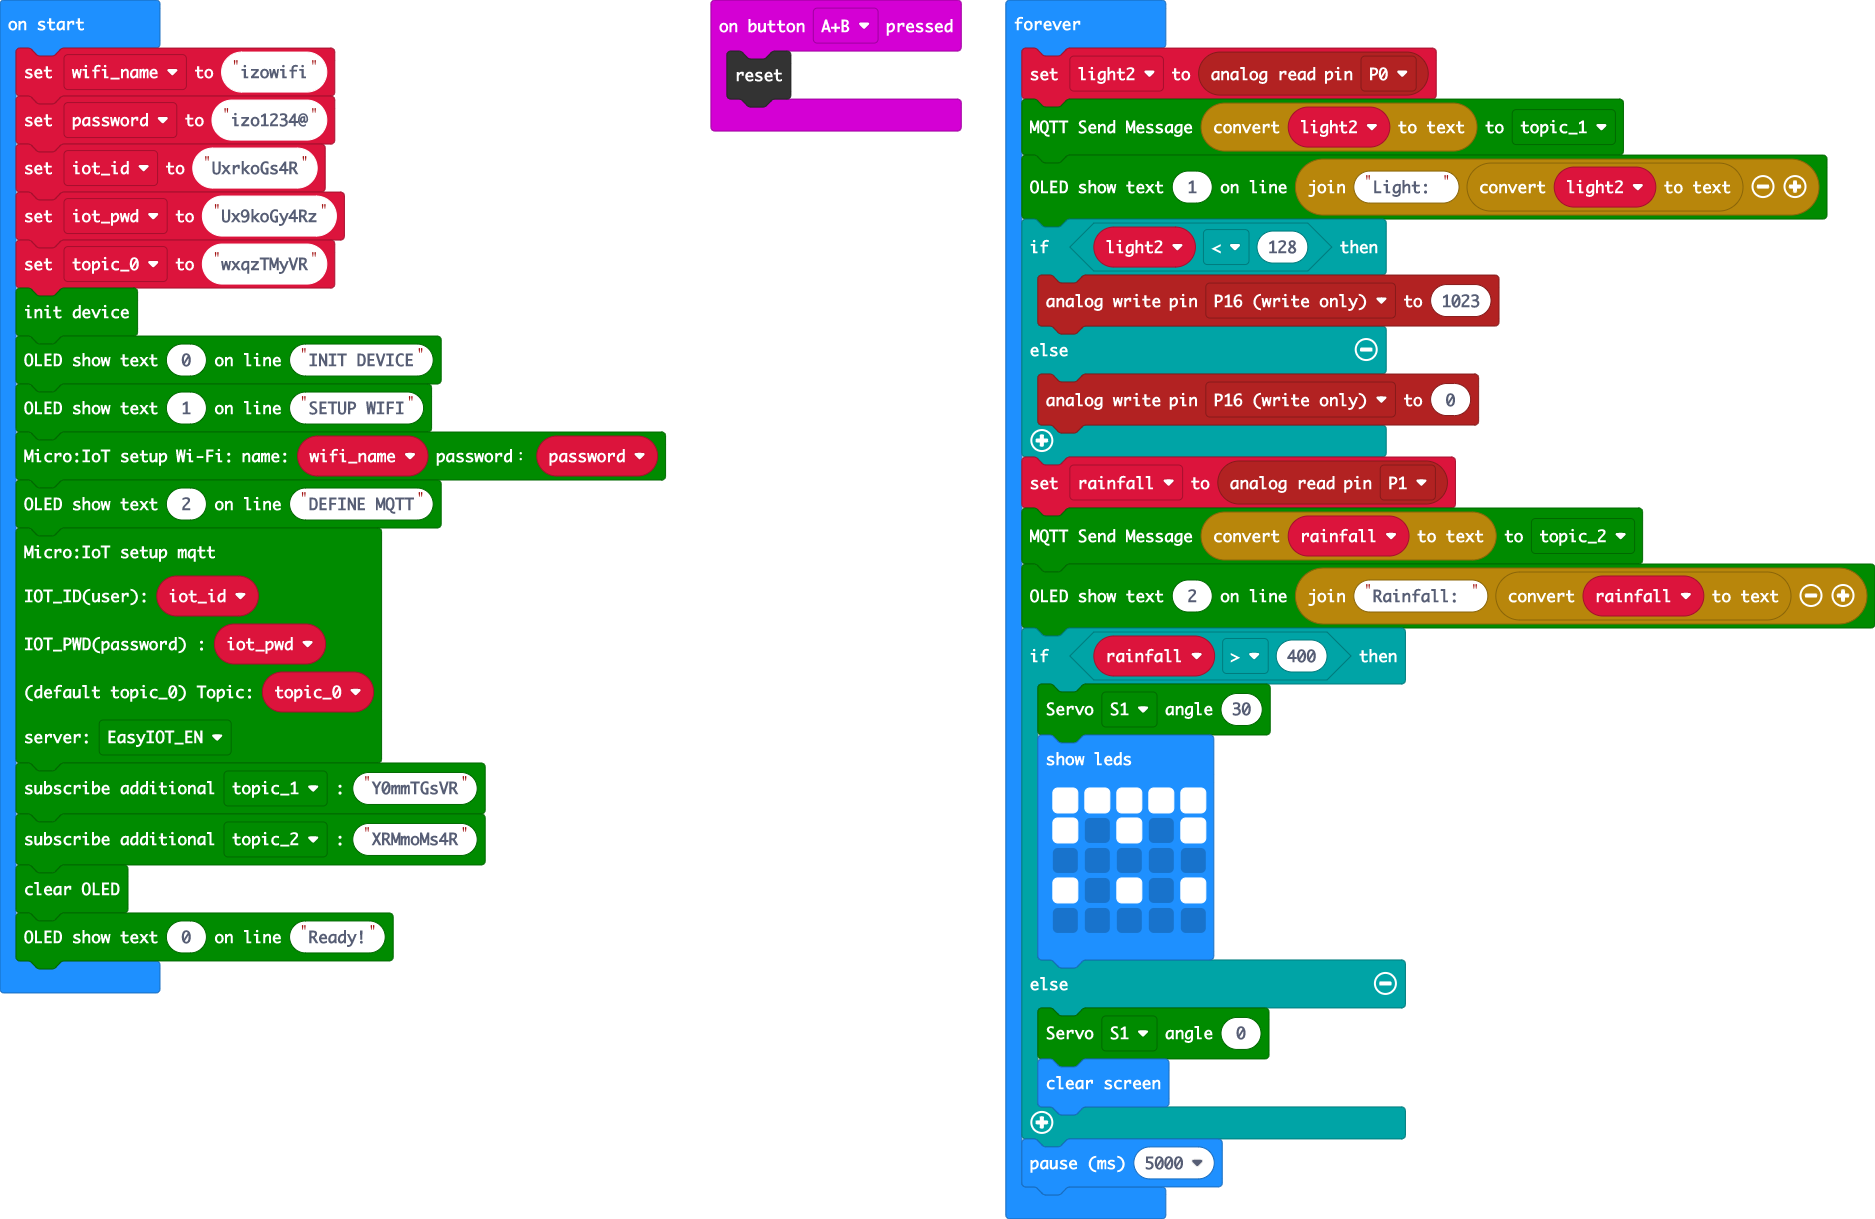
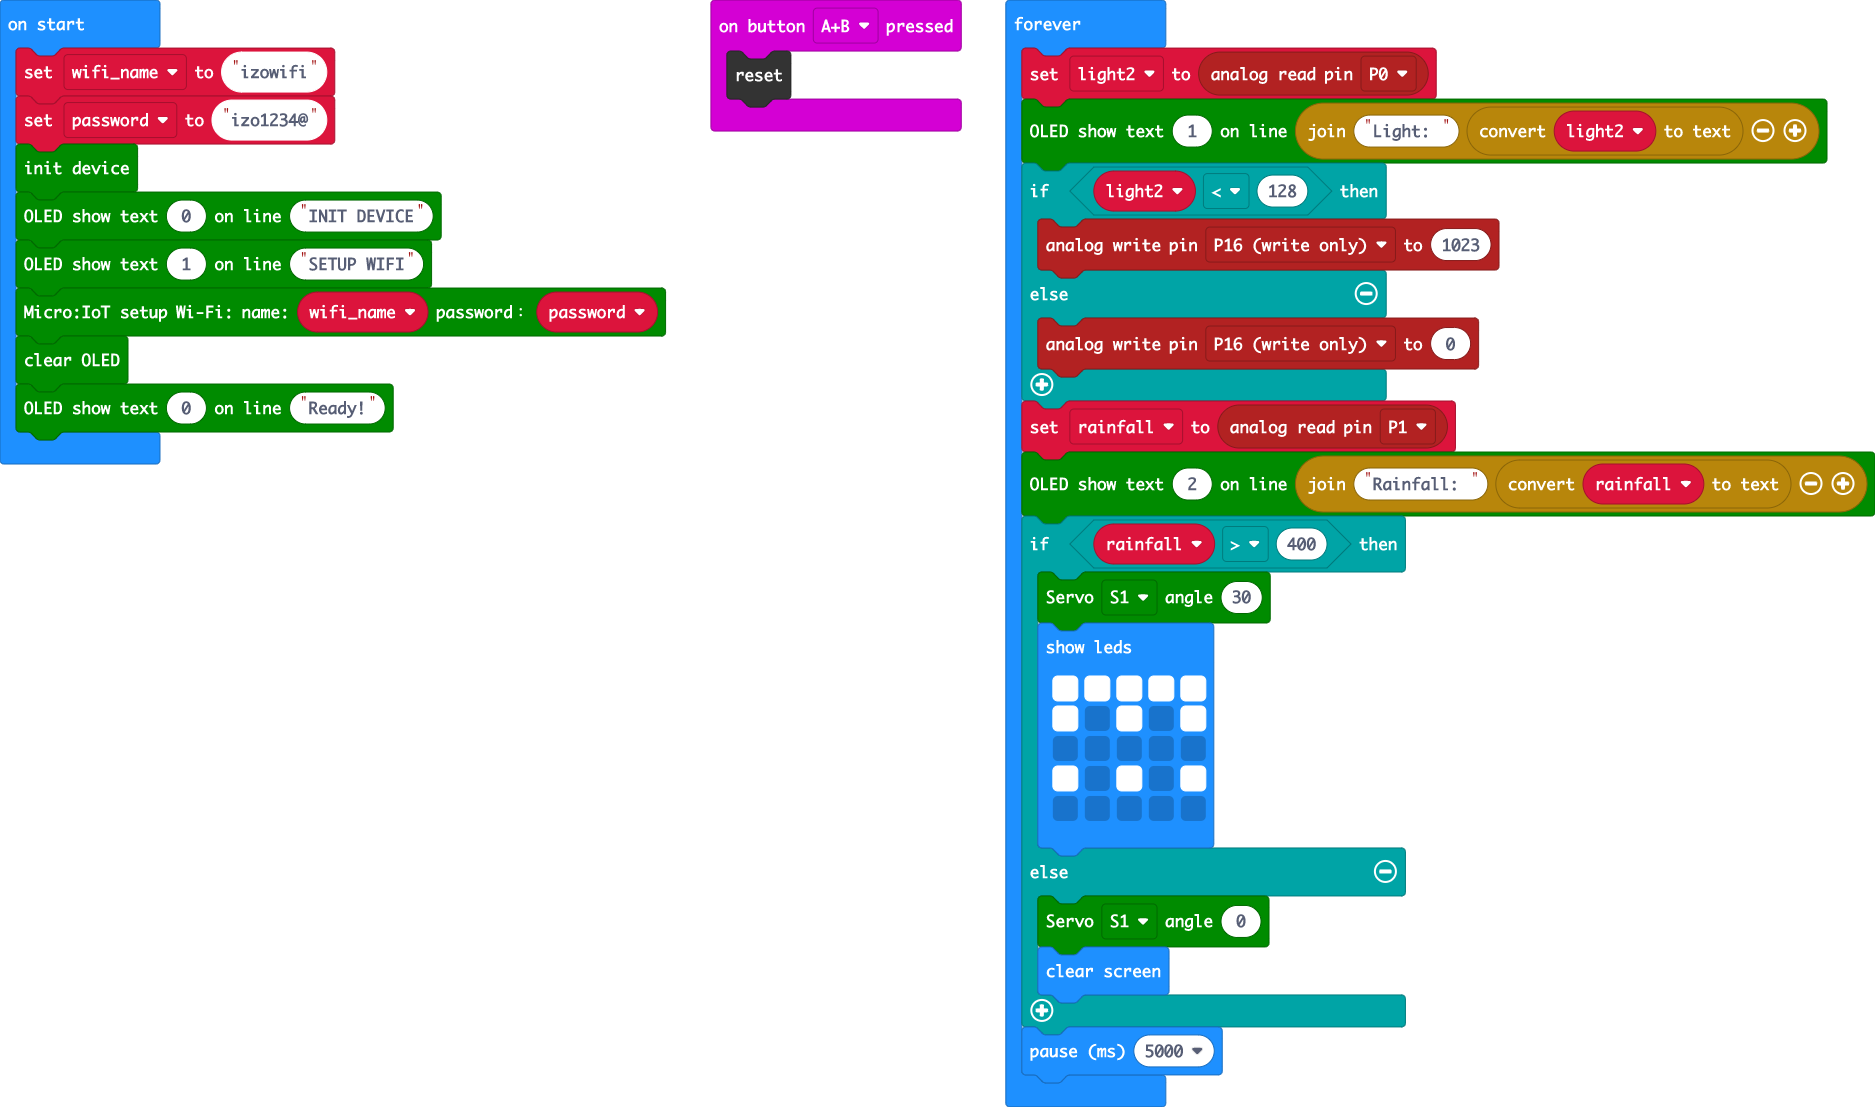
local operation

Changed region(s): [[0.3712, 0.0, 1.0, 0.9828], [0.0, 0.0, 0.3712, 0.8293]]

diff --git a/main.ts b/main.ts
@@ -5,27 +5,14 @@ let rainfall = 0
 let light2 = 0
 let wifi_name = "izowifi"
 let password = "izo1234@"
-let iot_id = "UxrkoGs4R"
-let iot_pwd = "Ux9koGy4Rz"
-let topic_0 = "wxqzTMyVR"
 microIoT.microIoT_initDisplay()
 microIoT.microIoT_showUserText(0, "INIT DEVICE")
 microIoT.microIoT_showUserText(1, "SETUP WIFI")
 microIoT.microIoT_WIFI(wifi_name, password)
-microIoT.microIoT_showUserText(2, "DEFINE MQTT")
-microIoT.microIoT_MQTT(
-iot_id,
-iot_pwd,
-topic_0,
-microIoT.SERVERS.English
-)
-microIoT.microIoT_add_topic(microIoT.TOPIC.topic_1, "Y0mmTGsVR")
-microIoT.microIoT_add_topic(microIoT.TOPIC.topic_2, "XRMmoMs4R")
 microIoT.microIoT_clear()
 microIoT.microIoT_showUserText(0, "Ready!")
 basic.forever(function () {
     light2 = pins.analogReadPin(AnalogPin.P0)
-    microIoT.microIoT_SendMessage(convertToText(light2), microIoT.TOPIC.topic_1)
     microIoT.microIoT_showUserText(1, "Light: " + convertToText(light2))
     if (light2 < 128) {
         pins.analogWritePin(AnalogPin.P16, 1023)
@@ -33,7 +20,6 @@ basic.forever(function () {
         pins.analogWritePin(AnalogPin.P16, 0)
     }
     rainfall = pins.analogReadPin(AnalogPin.P1)
-    microIoT.microIoT_SendMessage(convertToText(rainfall), microIoT.TOPIC.topic_2)
     microIoT.microIoT_showUserText(2, "Rainfall: " + convertToText(rainfall))
     if (rainfall > 400) {
         microIoT.microIoT_ServoRun(microIoT.aServos.S1, 30)
